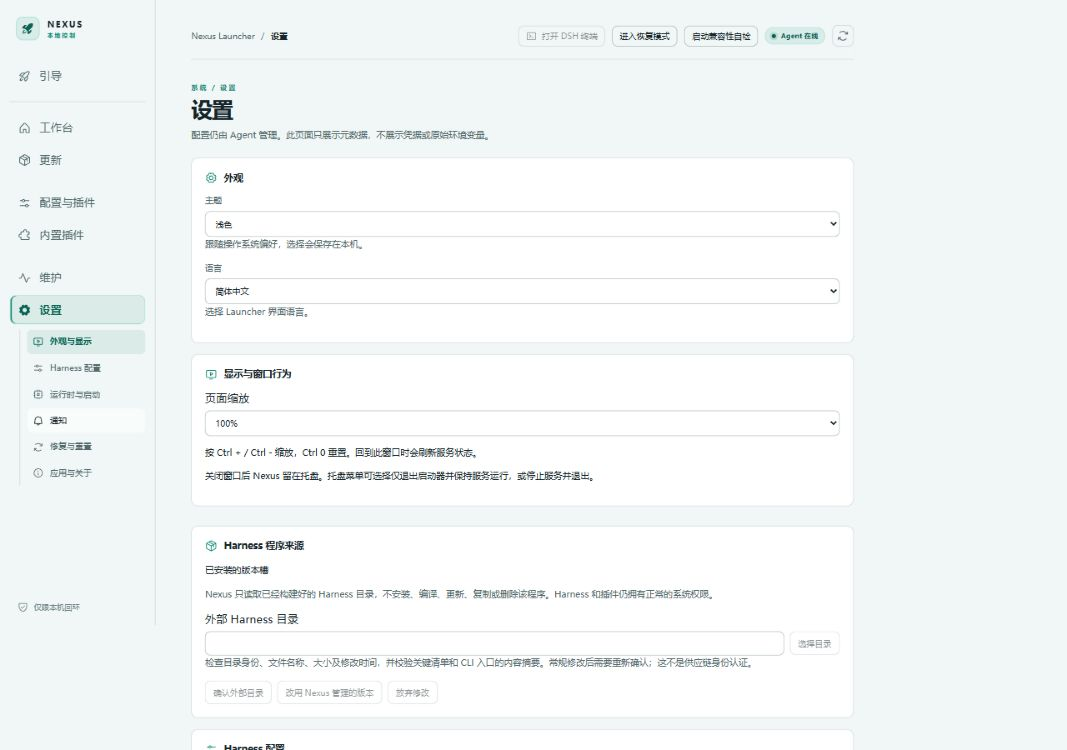
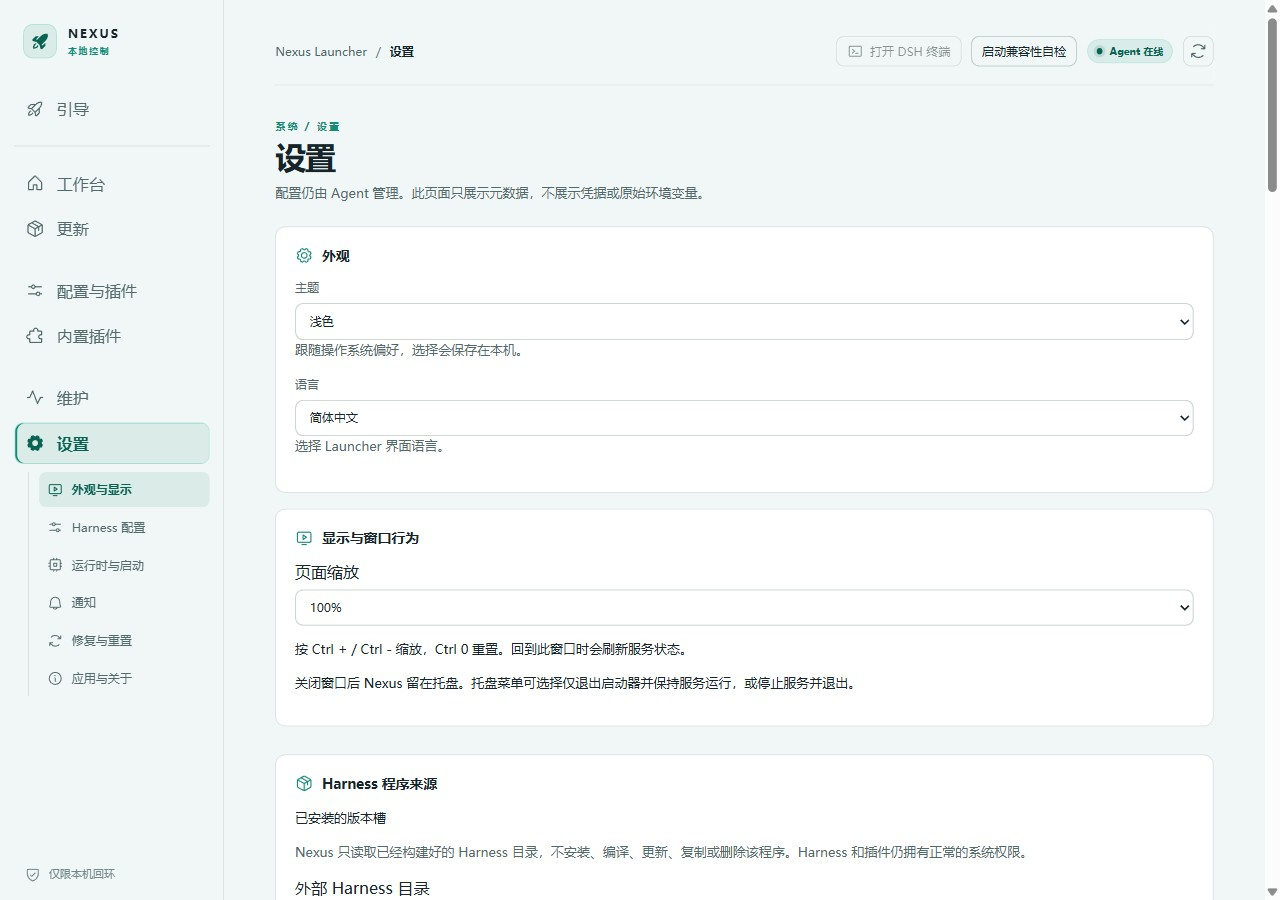
docs: refresh bilingual overview and v0.1.8 screenshots [skip ci]

diff --git a/README.md b/README.md
@@ -5,44 +5,58 @@
 
 Keep control of your Harness versions, runtime, and data.
 
-Nexus is a local Harness manager for Windows and macOS, with a new Linux ARM64 build target. It prepares runtimes, installs or connects Harness, checks startup readiness, manages processes and versions, and assists recovery. Use your system browser for Web, or launch the native Desktop included in the selected managed Harness release. Nexus no longer maintains a replacement client shell. Desktop dependencies ship with Nexus and travel with full offline packages; import and launch never download missing dependencies. The pinned official Desktop runtime supports Windows x64 and macOS x64/ARM64; Windows ARM64 and Linux ARM64 currently offer Web mode. Desktop actions appear only when supported by the selected Harness and platform.
+Nexus is a local Harness manager for Windows, macOS, and Linux ARM64. Install and switch Harness versions, choose a profile, start Web Harness or the official Desktop, and recover from startup problems in one place.
 
+Runtime dependencies ship with Nexus. Full offline packages include Harness and the required runtimes, so you can import and start on another machine with the same operating system and architecture without downloading missing components.
 [Downloads](https://github.com/chelal233/dsh-nexus/releases) · [User guide](docs/user-guide.en.md) · [FAQ](docs/faq.en.md) · [Documentation](docs/README.en.md)
 
-![Nexus first-use guide](docs/images/guide-en.jpg)
+![Nexus workbench](docs/images/workbench-en.jpg)
 
-*Real React UI in an isolated first-use environment, with no Harness installed. See [screenshot provenance](docs/images/README.en.md).*
+*The v0.1.8 workbench in an isolated first-use environment, before installing Harness. Unsupported Desktop options are hidden. See [all screenshots and capture details](docs/images/README.en.md).*
 
-## What Nexus provides
+## What you can do
 
-- **Version choice**: keep up to eight managed version slots by default; prepare versions from upstream tags and switch explicitly, or connect your own prebuilt Harness directory.
-- **Bundled environment**: Chromium, the Rust Agent, and Node/npm/pnpm are included. Users do not need the Nexus development toolchain.
-- **Plugin choice**: choose a plugin market or install none. Built-in extensions are modular; Nexus does not operate its own plugin catalog source.
-- **Task notifications**: choose event categories, desktop or terminal delivery, and unfocused-only or always conditions. Available events depend on Harness and its observer plugin.
-- **Recoverable failures**: startup checks, compatibility checks, checkpoints, and diagnostic export help investigate problems without resetting all user data.
-- **Chinese and English**: both are available in the interface and maintained usage documentation.
+- **Use Web or the official Desktop**: open Web Harness in your system browser, or launch the native Desktop included in a supported managed Harness release. Nexus checks availability before showing the Desktop option; it does not maintain a replacement client.
+- **Keep versions and profiles under your control**: prepare an upstream version before switching, keep up to eight managed version slots by default, and switch Web profiles from the workbench. Official Desktop manages its configuration in its own window. You can also connect an existing prebuilt Harness directory.
+- **Fix startup problems with a clear next step**: distinguish failed plugins, missing service providers, and plugins still waiting to load. Review suggested repairs, temporarily disable an identified plugin when appropriate, then check and retry. Plugin packages and data are retained, and disabled plugins can be re-enabled.
+- **Understand what is running**: the workbench and tray expose launch, open, stop, configuration, and maintenance actions. Choose between closing only Nexus and stopping all services before exiting. Preparation shows its stage and elapsed time, with a cancel action.
+- **Move a complete environment offline**: export Harness, matching runtimes, and selected data together. Import a full package on the same OS and architecture without online dependency installation. Configuration-only or data-only exports are partial packages.
+- **Choose plugins and notifications**: select a plugin market or use none; configure task notifications by event, delivery method, and window focus. Events depend on Harness and its observer plugin.
+- **Work in Chinese or English**: both languages are available in the interface, usage documentation, and release notes.
 
-Nexus does not replace the Harness Agent, sessions, or model features, and does not guarantee every Harness/plugin combination. Updating Nexus and switching Harness are separate operations.
+Startup checks go beyond a running process or reachable page: they inspect client plugins and core services, and distinguish checking, limited functionality, failure, and unverified states. They do not verify every conversation, tool, or runtime business operation. Nexus does not replace Harness's agent, sessions, or models. Updating Nexus and switching Harness are separate operations.
 
 ## Download and install
 
-| Platform | Architecture | Downloads |
-| --- | --- | --- |
-| Windows | x64, ARM64 | EXE installer or portable ZIP |
-| macOS | Intel x64, Apple Silicon ARM64 | DMG or application ZIP |
-| Linux | ARM64 | AppImage, DEB, RPM (native build and acceptance pending) |
+| Platform | Architecture | Downloads | Web Harness | Official Desktop |
+| --- | --- | --- | --- | --- |
+| Windows | x64 | EXE installer, portable ZIP | Yes | Supported Harness releases |
+| Windows | ARM64 | EXE installer, portable ZIP | Yes | Not currently available |
+| macOS | Intel x64 | DMG, application ZIP | Yes | Supported Harness releases |
+| macOS | Apple Silicon ARM64 | DMG, application ZIP | Yes | Supported Harness releases |
+| Linux | ARM64 | AppImage, DEB, RPM | Yes | Not currently available |
 
-Nexus covers only platforms supported by both Harness and Electron; it does not port unsupported upstream targets. There are no 32-bit x86 packages. Linux ARM64 build jobs are configured; downloads depend on successful native CI and actual release assets. This does not establish compatibility with every Linux distribution. Use the release tag, assets, and `_build.json` to identify a build. A prerelease is not a stability guarantee. Signing status is specific to each artifact; see [security](SECURITY.en.md).
+All five targets passed CI and package checks for [v0.1.8](https://github.com/chelal233/dsh-nexus/releases/tag/v0.1.8). Support follows the intersection of Harness upstream and Electron; there are no Linux x64 or 32-bit x86 packages in this release. Desktop availability also depends on the selected Harness release.
+
+On Linux ARM64, choose DEB for compatible Debian-family systems, RPM for compatible RPM-family systems, or AppImage where supported. Package format alone does not establish compatibility with every deepin, UOS, Kylin, or other distribution/version; system libraries and desktop environment still matter. CI/package checks are not acceptance tests of every distribution or Harness workflow.
+
+Use the release assets and their `_build.json` records to identify a build. Signing status is specific to each artifact; see [security](SECURITY.en.md).
 
 Extract the entire Windows ZIP, then run `Nexus Launcher.exe`. Do not copy only the executable. Portable means installation-free, not that all user data lives beside the executable. On macOS, copy the complete application to its intended location before opening it.
 
 ## Start in three steps
 
-1. Open Nexus and confirm the Agent is online.
-2. Install a managed Harness from the guide, or connect a prebuilt external directory.
-3. Confirm the data directory and profile, resolve blocking startup checks, start Harness, and choose how to open it.
+1. Open Nexus and confirm its background Agent is online.
+2. Install the Harness version you want, import a full offline package, or connect a prebuilt external directory.
+3. For Web, confirm the data directory and profile, resolve blocking startup checks, then start and open it in your browser. When supported, choose official Desktop to open its own window and manage its configuration there.
 
-Initial Harness preparation may download dependencies and build them. A fully prepared Harness can start offline, but model services and network plugins may still require connectivity. Nexus does not automatically install compilers required by upstream native dependencies.
+## Offline use and startup preparation
+
+For the supported managed path, acquire the chosen Harness version while online; Nexus supplies the matching runtime dependencies. Local preparation does not download missing Desktop dependencies. Nexus and official Desktop reuse a compatible Electron runtime, and subsequent starts reuse verified local files to reduce duplicate storage and preparation work.
+
+For transfer without a network, export a **full offline package** from a prepared environment and import it on the same OS and architecture. A partial configuration/data export cannot replace that package. An external source checkout must already be built; Nexus does not compile it or install a development toolchain for you.
+
+Offline startup does not make remote model services, plugin downloads, or other network features available offline. Those still need connectivity unless the chosen service itself runs locally.
 
 ## Programs and data are separate
 

diff --git a/README.zh-CN.md b/README.zh-CN.md
@@ -5,44 +5,58 @@
 
 让 Harness 的版本、运行环境和数据由你掌控。
 
-Nexus 是本地 Harness 管理工具，支持 Windows、macOS，并新增 Linux ARM64 构建目标。它负责准备运行环境、安装或关联 Harness、启动检查、进程管理、版本切换和故障恢复。Web 使用系统浏览器；Desktop 直接启动当前受管 Harness 版本自带的原生客户端，不再维护 Nexus 自制客户端外壳。Desktop 依赖随 Nexus 提供，离线包携带完整运行时，导入和启动不补下载依赖。 当前固定的官方 Desktop 运行时支持 Windows x64、macOS x64／ARM64；Windows ARM64 和 Linux ARM64 当前提供 Web 模式。仅当所选 Harness 与系统支持时显示桌面入口。
+Nexus 是本地 Harness 管理工具，支持 Windows、macOS 和 Linux ARM64。在一个地方安装与切换 Harness 版本、选择配置档、启动 Web 或官方 Desktop，并处理启动问题。
 
+运行依赖随 Nexus 提供。完整离线包包含 Harness 和所需运行时，可在同系统、同架构的另一台电脑上导入并启动，无需联网补装组件。
 [下载安装](https://github.com/chelal233/dsh-nexus/releases) · [用户指南](docs/user-guide.md) · [常见问题](docs/faq.md) · [文档目录](docs/README.md)
 
-![Nexus 首次使用引导](docs/images/guide-zh.jpg)
+![Nexus 工作台](docs/images/workbench-zh.jpg)
 
-*真实 React 界面，隔离的首次使用环境，尚未安装 Harness。截图来源与限制见[截图说明](docs/images/README.md)。*
+*v0.1.8 工作台，使用尚未安装 Harness 的隔离首次使用环境。不支持的 Desktop 选项不会显示。查看[全部截图与采集说明](docs/images/README.md)。*
 
-## Nexus 提供什么
+## 你可以用 Nexus 做什么
 
-- **版本选择自由**：默认保留最多 8 个受管版本槽位，准备上游标签对应的受管版本，确认后再切换；也可以使用自己的已构建 Harness 目录。
-- **环境随包提供**：包含 Chromium、Rust Agent、Node/npm/pnpm；普通用户不必先安装 Nexus 开发工具链。
-- **插件选择自由**：提供市场选择入口，也允许不安装市场；内置功能插件按模块维护，不自建插件目录源。
-- **任务通知**：按事件分类控制系统通知和终端提醒，支持仅失焦或始终提醒；可用事件取决于 Harness 及监听插件。
-- **故障可诊断**：启动检查、兼容性检查、检查点和诊断导出帮助定位问题，不用删除全部用户数据重新开始。
-- **中文与 English**：界面和当前使用文档均提供两种语言。
+- **使用 Web 或官方桌面端**：通过系统浏览器打开 Web Harness，或启动受支持的受管 Harness 版本自带的原生 Desktop。Nexus 检查可用性后才显示桌面选项，不再维护替代客户端。
+- **自己决定版本和配置**：新版本先准备再切换，默认最多保留 8 个受管版本槽位；在工作台切换 Web 配置档。官方 Desktop 在自己的窗口中管理配置，也可以关联已有的已构建 Harness 目录。
+- **启动失败后有明确的下一步**：区分出错插件、缺失服务的提供方和仍在等待的插件。查看建议，在适用时暂时禁用已定位的相关插件，再检查并重试。插件包和数据保留，停用后可以重新启用。
+- **看清运行状态并直接操作**：工作台与托盘提供启动、打开、中止、配置和维护入口。退出时可选择仅关闭 Nexus，或先中止全部服务；准备过程显示阶段、耗时和取消入口。
+- **离线迁移完整环境**：将 Harness、匹配的运行时和选定数据一起导出，在同系统、同架构下导入完整包，无需联网安装依赖。仅配置或仅数据导出属于部分包。
+- **自主选择插件与通知**：选择插件市场，也可以不使用市场；按事件、通知方式和窗口焦点设置任务提醒。可用事件取决于 Harness 及其监听插件。
+- **使用中文或英文**：界面、使用文档和发布日志均提供内容对应的两种语言。
 
-Nexus 不替代 Harness 的 Agent、会话和模型能力，也不保证任意 Harness 与任意插件组合都兼容。更新 Nexus 与切换 Harness 是两个独立操作。
+启动检查不只判断进程运行或网页可访问，还检查客户端插件与核心服务，区分检查中、功能受限、失败和未验证状态。这不代表已验证每次会话、工具调用或运行中的业务。Nexus 不替代 Harness 的 Agent、会话和模型能力；更新 Nexus 与切换 Harness 是两个独立操作。
 
 ## 下载与安装
 
-| 平台 | 架构 | 下载文件 |
-| --- | --- | --- |
-| Windows | x64、ARM64 | EXE 安装包或 ZIP 免安装包 |
-| macOS | Intel x64、Apple Silicon ARM64 | DMG 或 ZIP 应用包 |
-| Linux | ARM64 | AppImage、DEB、RPM（待原生构建与验收） |
+| 平台 | 架构 | 下载文件 | Web Harness | 官方 Desktop |
+| --- | --- | --- | --- | --- |
+| Windows | x64 | EXE 安装包、ZIP 免安装包 | 支持 | 所选 Harness 版本支持时可用 |
+| Windows | ARM64 | EXE 安装包、ZIP 免安装包 | 支持 | 暂不支持 |
+| macOS | Intel x64 | DMG、ZIP 应用包 | 支持 | 所选 Harness 版本支持时可用 |
+| macOS | Apple Silicon ARM64 | DMG、ZIP 应用包 | 支持 | 所选 Harness 版本支持时可用 |
+| Linux | ARM64 | AppImage、DEB、RPM | 支持 | 暂不支持 |
 
-只覆盖 Harness 与 Electron 均支持的平台，不自行移植上游未支持的目标。不提供 x86 32 位版本。Linux ARM64 构建流程已加入；是否提供下载以通过原生 CI 后的实际附件为准，不代表已验证所有国产发行版。按 Release 的标签、附件和 `_build.json` 选择版本，预发布版不是稳定版承诺。签名状态以具体附件为准，参见[安全说明](SECURITY.md)。
+[v0.1.8](https://github.com/chelal233/dsh-nexus/releases/tag/v0.1.8) 的五个平台目标均已通过 CI 与安装包检查。支持范围遵循 Harness 上游与 Electron 的交集；本版本不提供 Linux x64 或 x86 32 位安装包。官方 Desktop 是否可用还取决于所选 Harness 版本。
+
+Linux ARM64 上，兼容的 Debian 系统可选择 DEB，兼容的 RPM 系统可选择 RPM，支持 AppImage 的环境也可使用 AppImage。包格式相同不代表已兼容所有 deepin、统信 UOS、麒麟等发行版及其版本，还需满足系统库和桌面环境要求。CI 与安装包检查不等于逐一验收所有发行版和 Harness 业务场景。
+
+按 Release 附件及其 `_build.json` 记录识别构建。签名状态以具体附件为准，参见[安全说明](SECURITY.md)。
 
 Windows ZIP 必须完整解压，再运行目录内的 `Nexus Launcher.exe`，不能单独复制 EXE。免安装不代表所有用户数据都存放在解压目录。macOS 将完整应用复制到合适位置后启动。
 
 ## 三步开始
 
-1. 打开 Nexus，确认 Agent 在线。
-2. 在引导中安装受管 Harness，或关联已经构建完成的外部目录。
-3. 确认数据目录与 profile，运行启动检查，处理阻断项后启动，再选择打开方式。
+1. 打开 Nexus，确认其后台 Agent 在线。
+2. 安装需要的 Harness 版本、导入完整离线包，或关联已经构建完成的外部目录。
+3. 使用 Web 时，确认数据目录与配置档，处理启动检查阻断项后启动并在浏览器打开；支持官方 Desktop 时，可选择桌面端并在其窗口中管理配置。
 
-首次准备 Harness 可能下载依赖并构建。完整安装好的 Harness 可以离线启动，但模型服务和联网插件仍可能需要网络。Nexus 不自动安装上游原生依赖所需的编译器。
+## 离线使用与启动准备
+
+对于受支持的受管版本，联网取得所选 Harness 后，匹配的运行依赖由 Nexus 提供。本地准备不联网补装 Desktop 依赖。Nexus 与官方 Desktop 复用兼容的 Electron 运行时，后续启动复用已校验的本地文件，减少重复占用和准备工作。
+
+需要断网迁移时，从准备完成的环境导出**完整离线包**，在同系统、同架构下导入。仅配置／数据的部分包不能代替完整包。使用外部源码目录时，须自行预先构建完成；Nexus 不代为编译或安装开发工具链。
+
+离线启动不意味着远程模型服务、插件下载或其他联网功能也能离线使用；除非所选服务本身在本地运行，这些功能仍需要网络。
 
 ## 程序与数据分开
 

diff --git a/docs/images/README.en.md b/docs/images/README.en.md
@@ -3,8 +3,9 @@
 [简体中文](README.md)
 
 
-Captured on 2026-09-18 from the actual React build in this working tree, based on `115f2a8` with unreleased changes. The preview uses an isolated Nexus Agent data directory, with no Harness installed and no real user sessions. Native desktop actions are unavailable in the browser preview. Screenshots do not establish installer, updater, notification-delivery or cross-platform acceptance.
+Recaptured on 2026-09-20 from the v0.1.8 UI (checkout `c00dc29`, with application source unchanged from the release tag), at 1280 × 900. These use real Electron, preload, and Rust Agent in an isolated first-use data directory, with no Harness installed and no real user sessions. The setup, workbench, and settings navigation entries were clicked and checked in both languages. Settings captures show the top of the page; more options are available by scrolling.
 
+The Desktop entry is hidden in the workbench because no supported Harness is installed; this does not mean the host platform lacks Desktop support. These images show the UI and first-use state, not acceptance of Harness startup, installers, updates, notification delivery, or other platforms.
 Chinese and English show the same pages in the light theme. These are actual captures, with no generated or composited features.
 
 | Page | Chinese | English |

diff --git a/docs/images/README.md b/docs/images/README.md
@@ -3,8 +3,9 @@
 [English](README.en.md)
 
 
-截图于 2026-09-18 从当前工作区实际构建的 React 界面采集，基础提交为 `115f2a8`，包含未发布工作区改动。使用隔离的 Nexus Agent 数据目录，尚未安装 Harness，不包含真实用户会话。浏览器预览中的原生桌面操作不可用；截图不能证明安装包、更新、通知投递或跨平台验收成功。
+截图于 2026-09-20 从 v0.1.8 界面重新采集（工作区提交 `c00dc29`，应用源码与发布标签一致），分辨率为 1280 × 900。使用真实 Electron、preload 和 Rust Agent，在隔离的首次使用数据目录中启动，尚未安装 Harness，不包含真实用户会话。已实际点击并检查两种语言的引导、工作台和设置入口；设置图展示页面顶部，更多选项需滚动查看。
 
+工作台截图中的 Desktop 入口因尚未安装受支持的 Harness 而隐藏，不表示当前平台不支持 Desktop。截图展示界面与首次使用状态，不能证明 Harness 启动、安装包、更新、通知投递或跨平台验收成功。
 中文和英文使用相同页面与浅色主题。截图为界面原始捕获，没有用图片生成或合成方式添加功能。
 
 | 页面 | 中文 | English |

diff --git a/README.en.md b/README.en.md
@@ -1,5 +1,5 @@
 # Nexus Launcher
 
-The English project overview is now the default [README](README.md).
+The complete English overview is maintained in [README.md](README.md), including platform downloads, Web and official Desktop support, offline use, and current screenshots.
 
 [简体中文](README.zh-CN.md)
